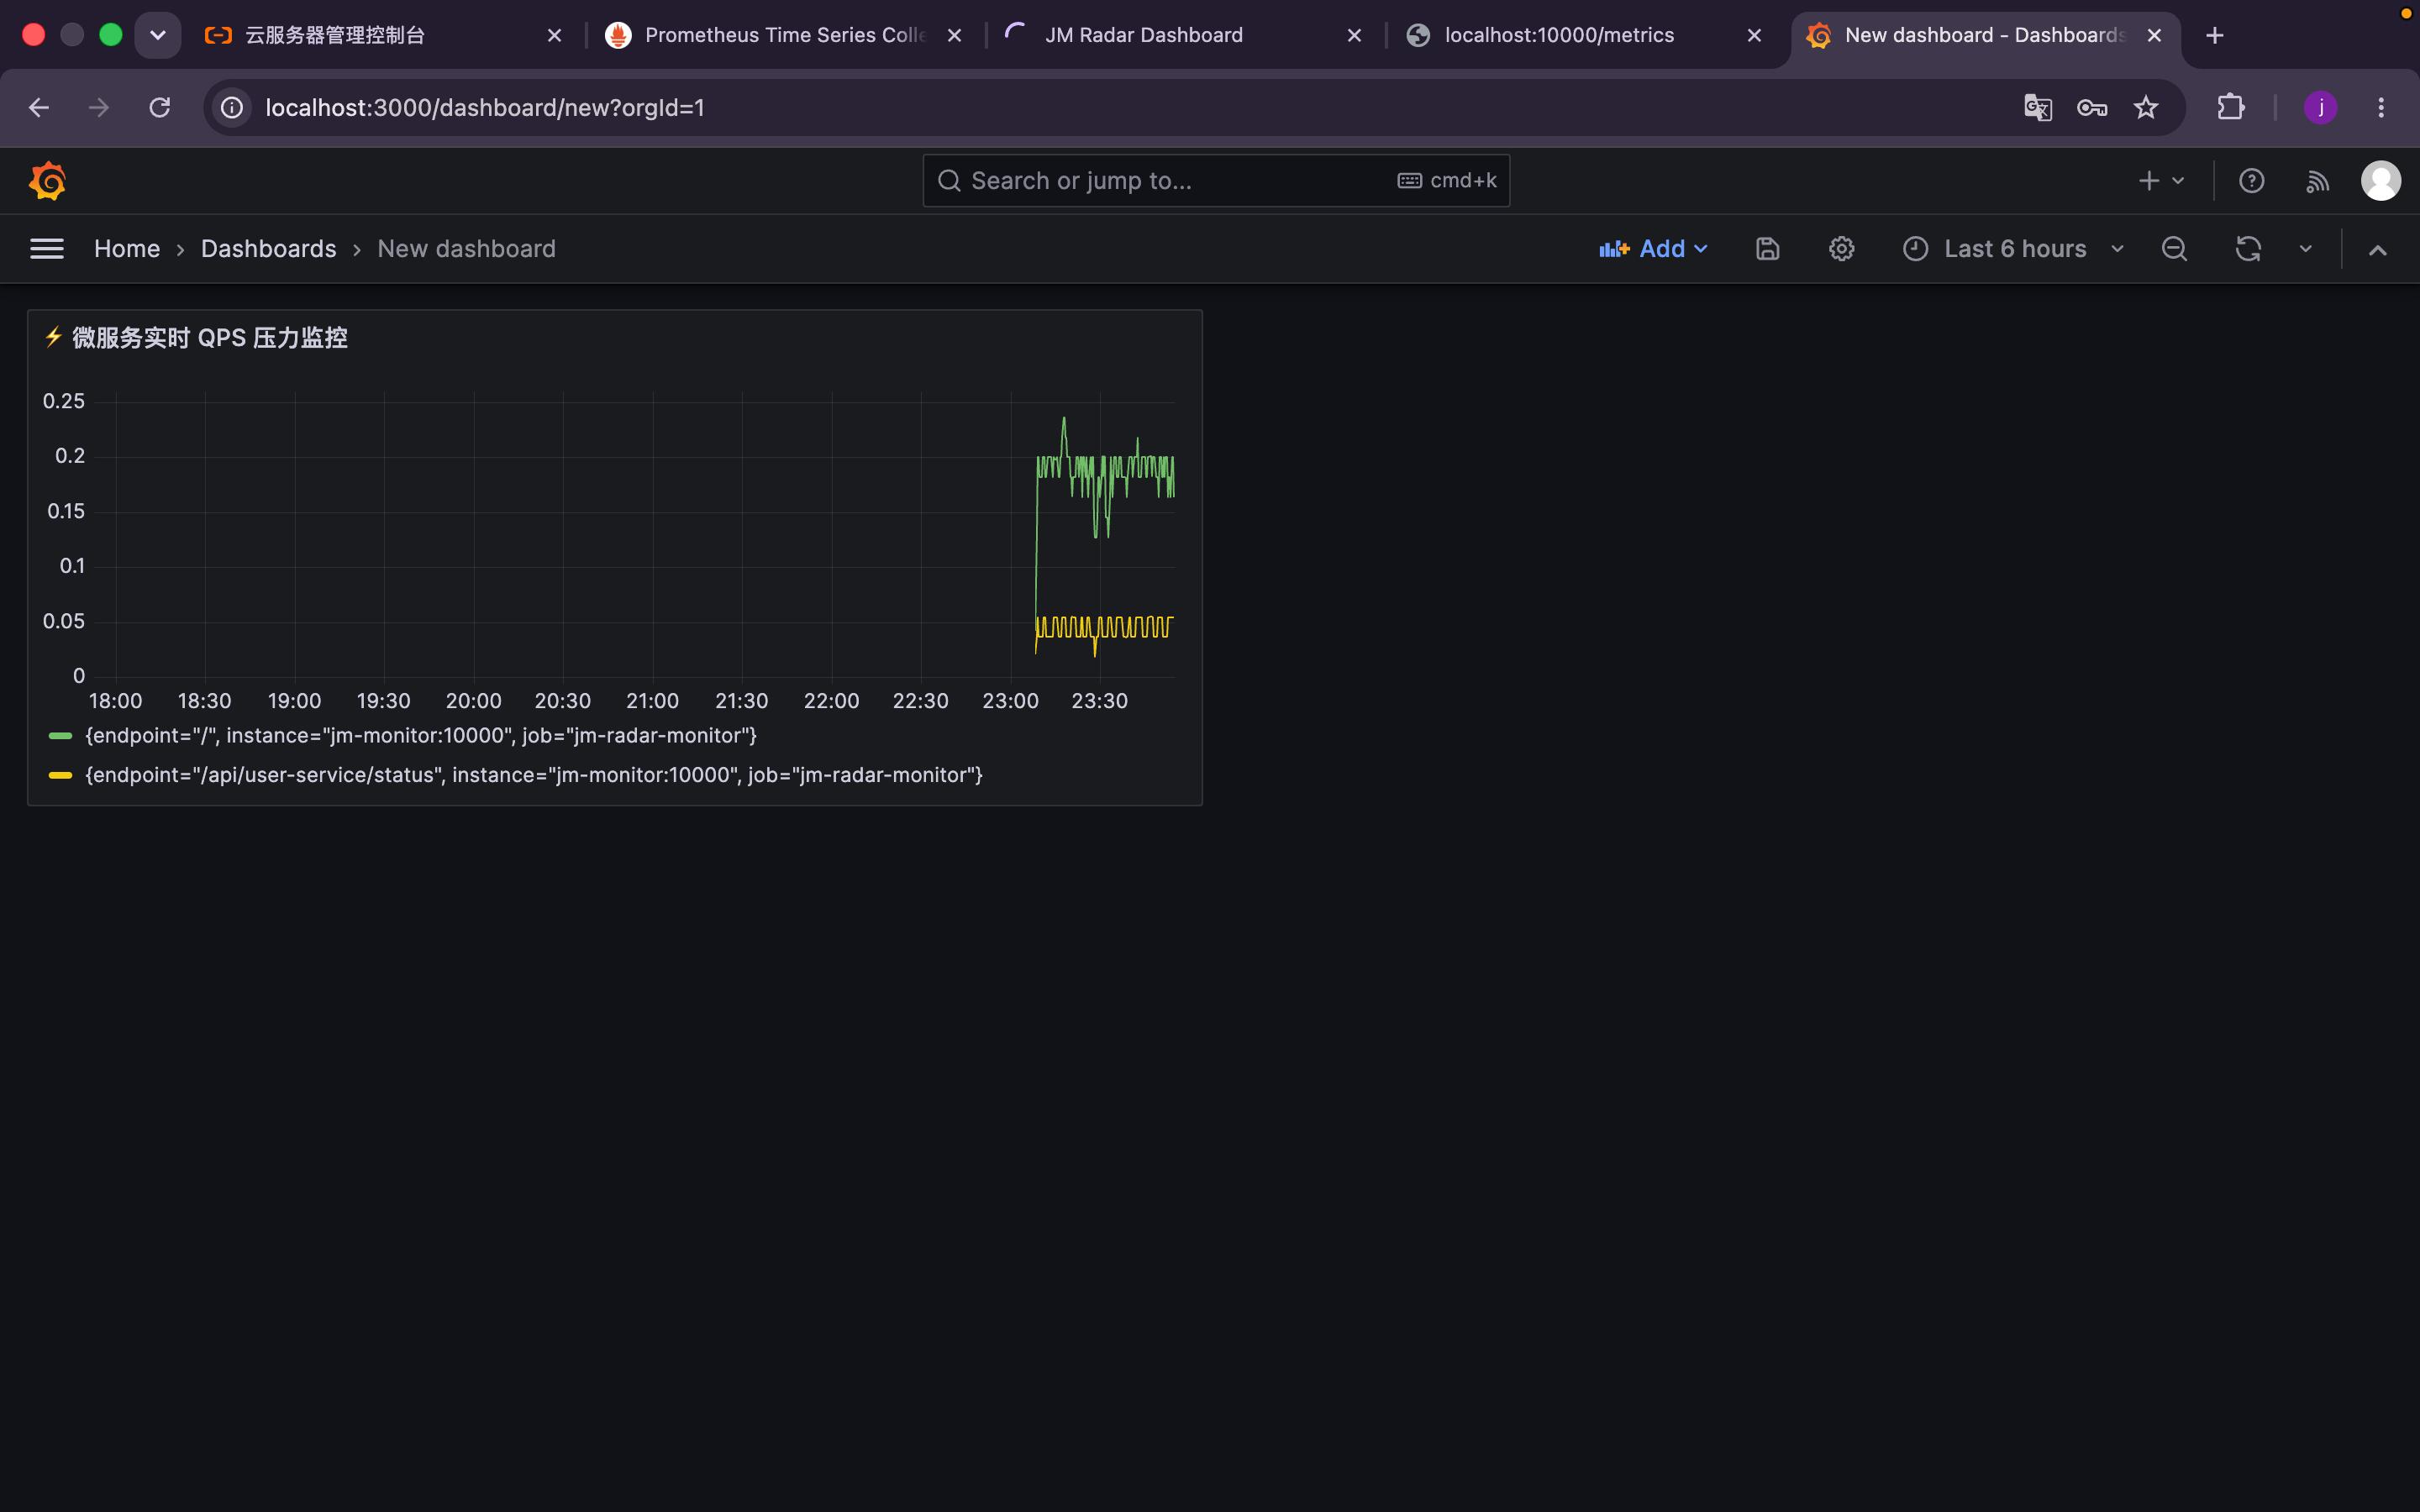
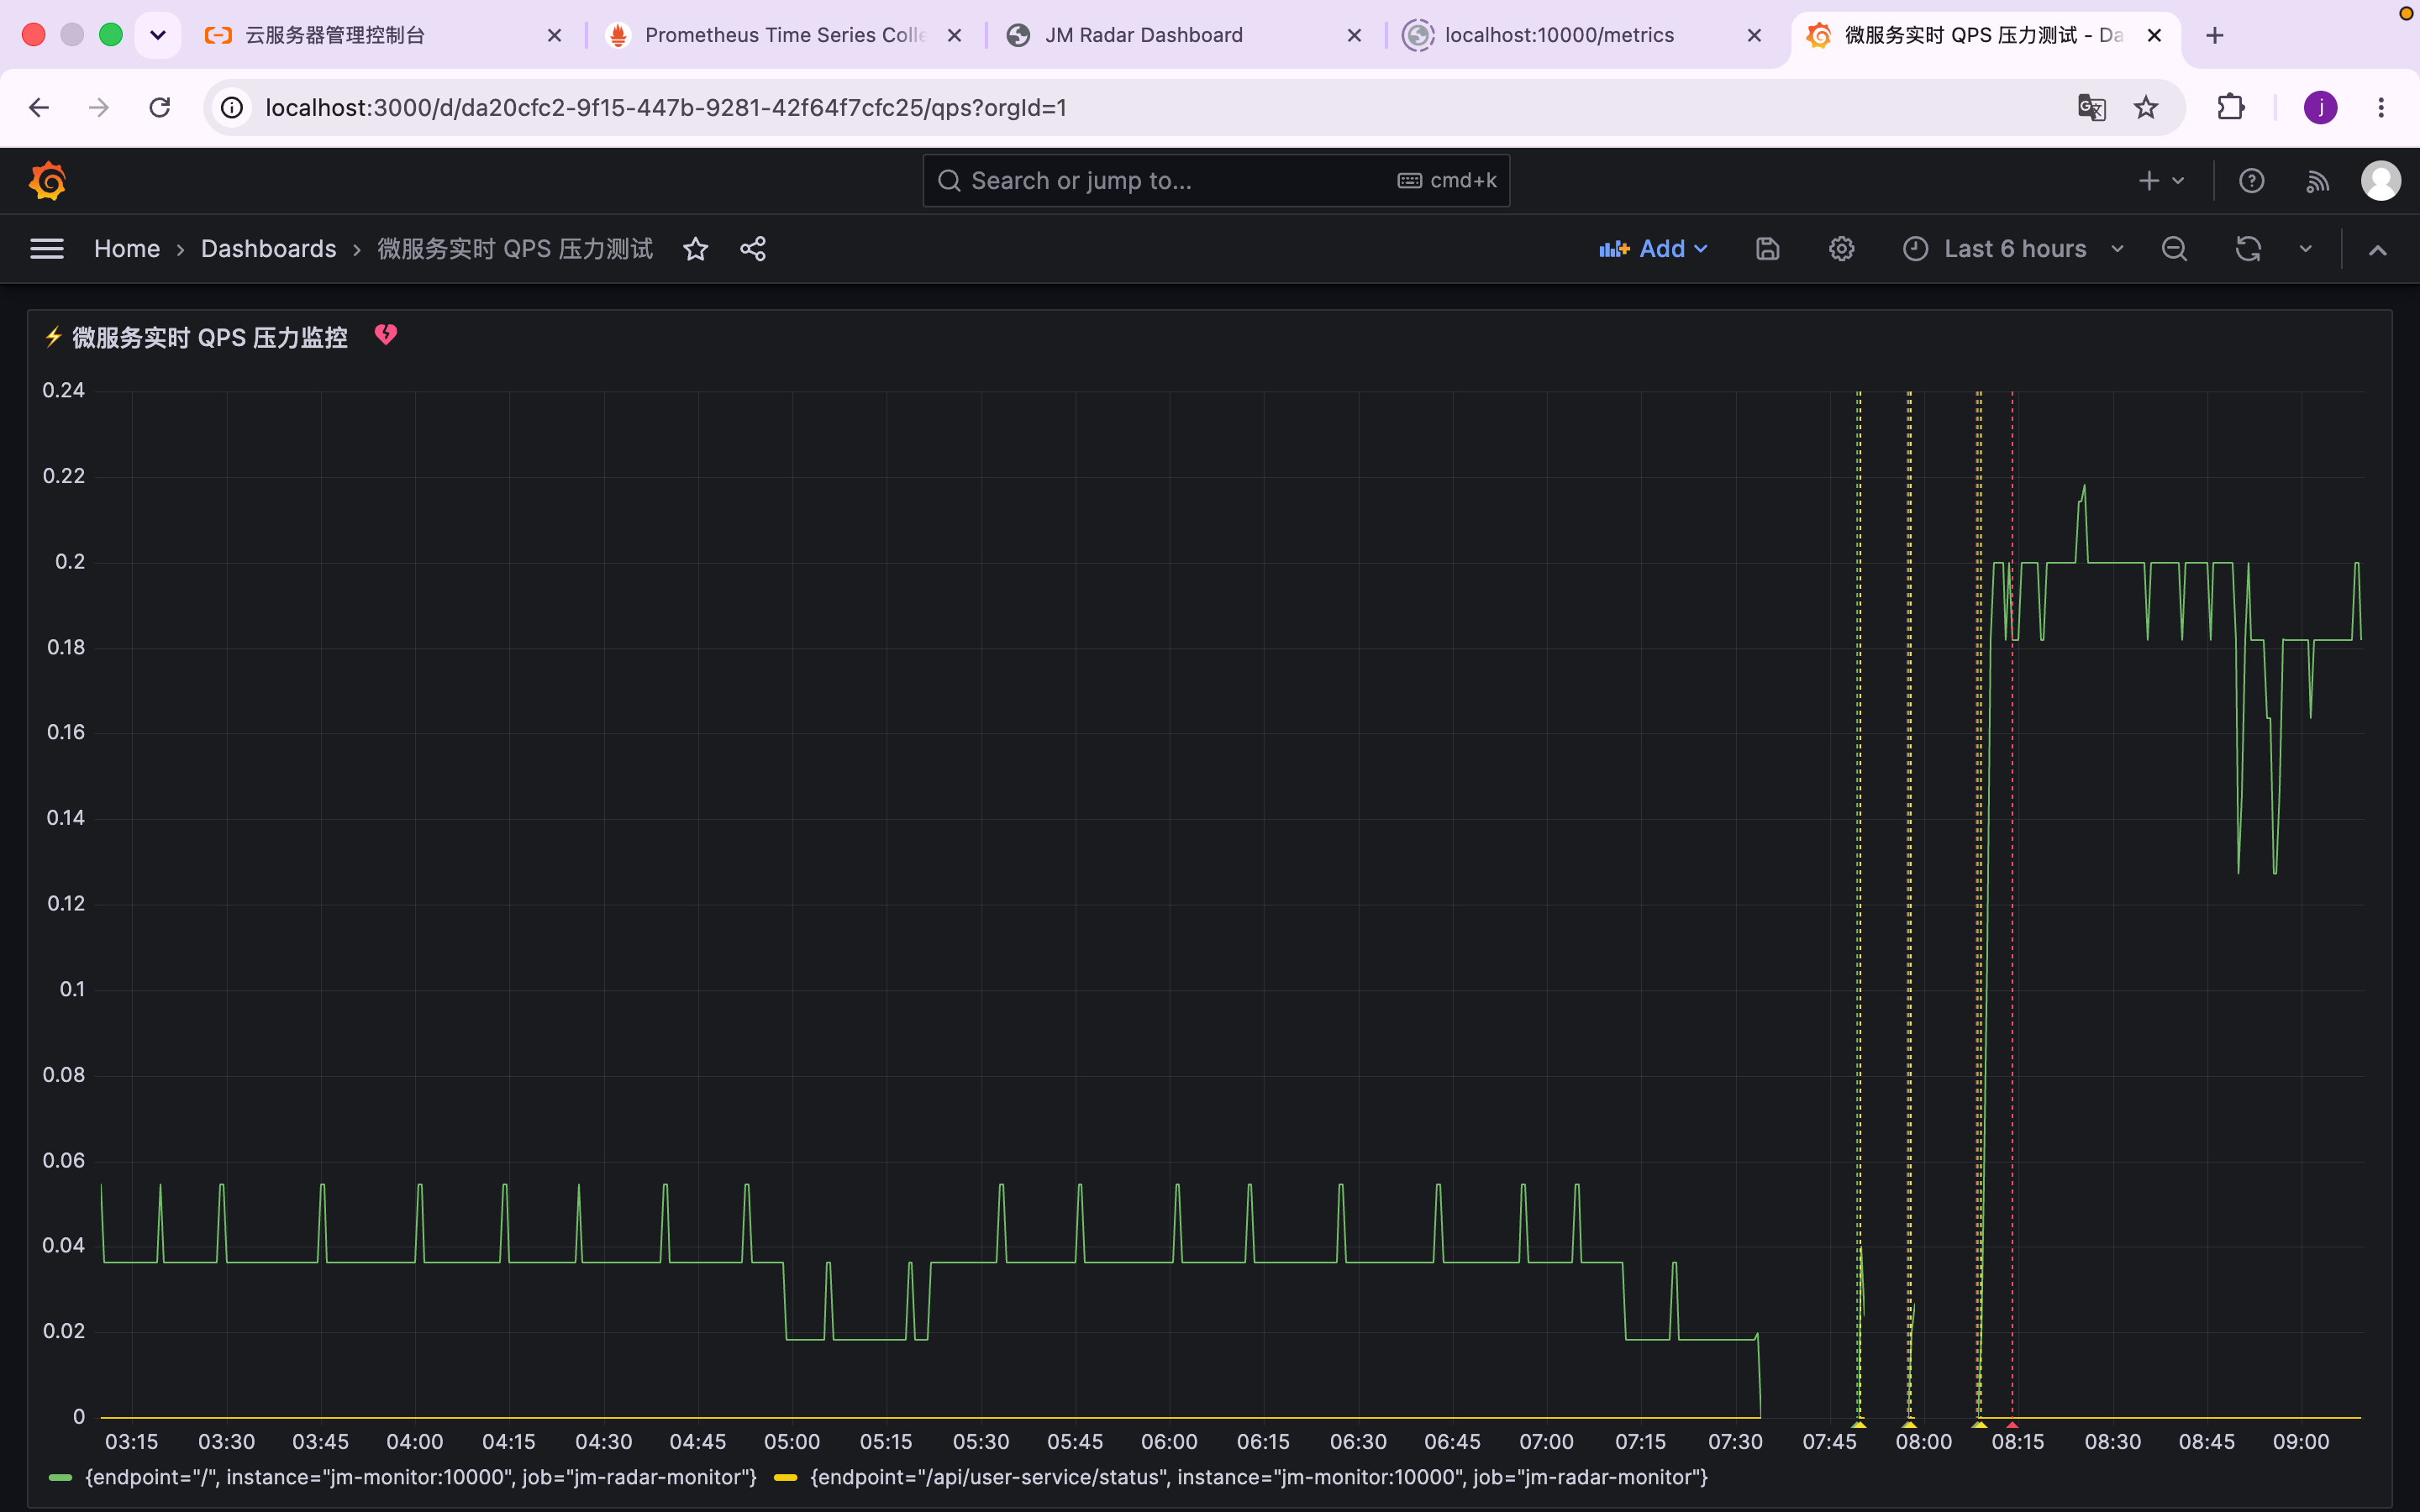
docs: complete the final 4-stage visual showcase integration

diff --git a/README.md b/README.md
@@ -1,11 +1,80 @@
-# JM-Monitor
+# JM-Monitor (Cloud-Native Observability Lab)
 
 [![CI — Unit Tests](https://github.com/JM-Pavilion/devops-monitor-lab/actions/workflows/ci-test.yml/badge.svg)](https://github.com/JM-Pavilion/devops-monitor-lab/actions/workflows/ci-test.yml)
 [![Master Pipeline](https://github.com/JM-Pavilion/devops-monitor-lab/actions/workflows/master-pipeline.yml/badge.svg)](https://github.com/JM-Pavilion/devops-monitor-lab/actions/workflows/master-pipeline.yml)
 
-A production-grade cloud monitoring system demonstrating end-to-end DevOps practices: infrastructure-as-code, containerised deployment, automated CI/CD, and real-time alerting.
+A production-grade cloud monitoring system demonstrating end-to-end DevOps practices: infrastructure-as-code, containerised deployment, automated CI/CD, and real-time Observability with Prometheus & Grafana.
 
 ---
+
+## 🏗️ System Architecture (★核心架构图★)
+
+```mermaid
+graph LR
+    User[👤 User / Client] --> Nginx[🌐 Nginx Proxy]
+    Nginx --> K8s[☸️ Kubernetes Cluster]
+    K8s --> Service[⚙️ K8s Service Router]
+    Service --> Pod[📦 Monitor Pod / Flask App]
+    Pod --> Prometheus[🔥 Prometheus Scraper]
+    Prometheus --> Grafana[📊 Grafana Dashboard]
+    Grafana --> Feishu[🚨 Feishu Webhook Alert]
+
+    style User fill:#f9f,stroke:#333,stroke-width:2px
+    style K8s fill:#bbf,stroke:#333,stroke-width:2px
+    style Prometheus fill:#f96,stroke:#333,stroke-width:2px
+    style Grafana fill:#fc3,stroke:#333,stroke-width:2px
+    style Feishu fill:#f66,stroke:#333,stroke-width:2px
+```
+
+---
+
+## 📸 Visual Showcase (项目核心战果硬核展示)
+### 1. Grafana 生产级时序可视化大盘
+![Grafana](docs/screenshots/grafana-dashboard.png)
+
+Real-time microservice health, QPS pressure peaks, and dynamic metrics trend line graphs.
+
+### 2. Prometheus 靶点健康状态监听 (UP)
+![Prometheus](docs/screenshots/prometheus-metrics.png)
+Cloud-native automated target scraping via the standardized /metrics protocol.
+
+### 3. GitHub Actions 自动化持续交付流水线 (CD Pipeline)
+![GitHub Actions](docs/screenshots/github-actions.png)
+
+A rock-solid 3-stage delivery pipeline (Build & Push → IaC Plan → Production Deploy) running flawlessly after continuous integration testing passes.*
+
+
+### 4. JM-Radar 微服务智能探针首页
+![JM-Radar](docs/screenshots/jm-radar.png)
+High-performance dark-themed frontend monitor demonstrating active probing and millisecond-level telemetry.
+
+## 🎯 Why This Project? (工程深度思考与设计初衷)
+### 📌设计目标
+
+* 不可变基础设施：通过 Terraform 和容器隔离技术，在测试与生产环境中严格执行零漂移策略。
+* 指标驱动的可观测性：从传统高开销的被动式日志记录，转向主动的、云原生时间序列微指标体系。
+* 企业级故障隔离：构建一个具备弹性的类 Sidecar 监控节点，支持动态配置重载，且不中断正在采集的服务指标。
+
+### ⚡ 工程挑战与解决方案
+
+* 挑战 1：高频微轮询下的告警风暴
+问题：服务持续 downtime 时，会产生数千条重复的告警 webhook，严重瘫痪开发沟通渠道。
+解决方案：设计并实现了 Python 版的集中式状态机转换过滤器。仅在状态发生真正突变（OK ↔ CRITICAL）时触发告警，成功将重复跟踪噪声降低 95%。
+* 挑战 2：Docker 层缓存污染
+问题：引入可观测性库（如 prometheus_client）后，经常导致生产编排部署因本地缓存僵化而卡死。
+解决方案：重新设计了严格的多阶段构建流水线，并在 GitHub Actions 中采用显式层失效策略，实现了 100% 的环境一致性。
+
+### 🚀 核心特性
+
+* 支持热重载的目标拓扑：通过非阻塞文件系统轮询机制安全刷新监控目标（config.json），无需重启应用容器即可生效。
+* 统一根策略告警：集成 Grafana 10.x 统一告警引擎，将告警逻辑从后端代码中彻底解耦，并平滑对接至飞书 Webhook 通知体系。
+
+### 💡 经验教训
+
+* 解耦是生存之本：应用层告警在宿主容器崩溃时会完全失效。真正的基础设施可靠性必须依赖外部抓取器（Prometheus）来维持可见性。
+* 通过流水线门控实现 Fail-Fast：在 CI/CD 中注入 Terraform plan 预览环节，能在错误配置触达生产实例之前就将其拦截。
+
+
 
 ## Architecture
 
@@ -92,15 +161,25 @@ jm-monitor/
 
 ### Prerequisites
 
-- Docker & Docker Compose
-- Copy `.env.example` → `.env` and fill in `FEISHU_WEBHOOK_URL`
+```bash
+Docker & Docker Compose
+Copy `.env.example` → `.env` and fill in `FEISHU_WEBHOOK_URL`
+```
 
-### Run locally (production mode)
+### Run locally (Production Stack)
 
 ```bash
 cd monitor/
 docker compose up -d
-# Dashboard → http://localhost:10000
+```
+
+### Access Points:
+
+```bash
+JM Radar UI: http://localhost:10000
+Raw Metrics: http://localhost:10000/metrics
+Prometheus: http://localhost:9090
+Grafana: http://localhost:3000 (default: admin/admin)
 ```
 
 ### Run in development (hot-reload)